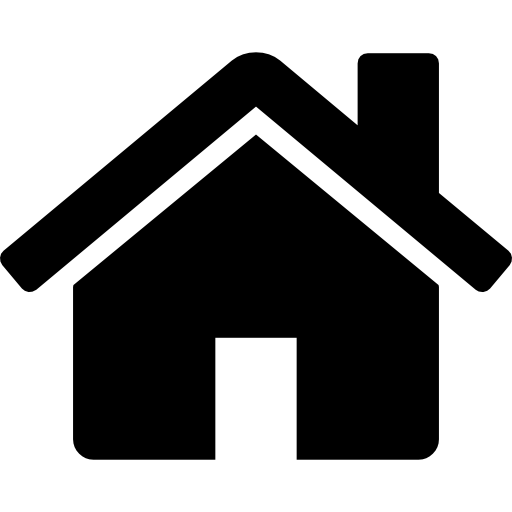
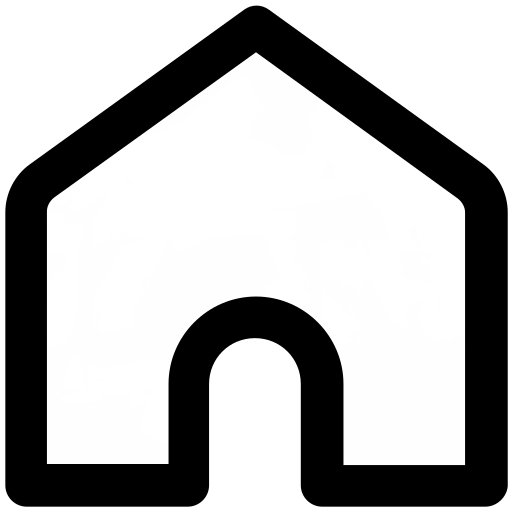
nmp

diff --git a/public/style/video.css b/public/style/video.css
@@ -43,7 +43,8 @@
     margin-right: auto;
 }
 .videos_from{
-    border: 2px solid gray;
+    border-top: 2px solid gray;
+    border-left: 2px solid gray;
     border-radius: 0 0 20px 0px;
     height: 100%;
     width: 100%;
@@ -94,11 +95,14 @@
     text-align: left;
 }
 .next_section{
-    border: 2px solid gray;
     border-radius: 20px;
-    padding-top: 50px;
+    margin-top: 20px;
     width: 100%;
     height: fit-content;
+    overflow: visible;
+}
+.next_section h1{
+    margin: 10px;
 }
 .next{
     z-index: 0;

diff --git a/public/style/theme.css b/public/style/theme.css
@@ -19,7 +19,10 @@
         color: gray;
     }
     .lupa,.close,.levi img,.options img,.arrow{
-        filter: invert(100%);
+        filter: invert(90%);
+    }
+    .sada img{
+        filter: invert(20%)!important;
     }
 }
 @media (prefers-color-scheme: light) {
@@ -41,6 +44,11 @@
         background-color: white;
         color: gray;
     }
-    
+    .lupa,.close,.levi img,.options img,.arrow{
+        filter: invert(20%);
+    }
+    .sada img{
+        filter: invert(90%)!important;
+    }
     
 }

diff --git a/public/srcipts/video.js b/public/srcipts/video.js
@@ -1,0 +1,13 @@
+let currentVolume = parseFloat(localStorage.getItem("videoVolume")) || 1; // Default to 100%
+
+const videoElement = document.getElementById("current");
+
+videoElement.addEventListener('volumechange',(element)=>{
+    updateVolume(videoElement.volume)
+})
+
+function updateVolume(newVolume) {
+  videoElement.volume = newVolume;
+  localStorage.setItem("videoVolume", newVolume);
+}
+updateVolume(currentVolume);

diff --git a/public/style/main-page.css b/public/style/main-page.css
@@ -80,7 +80,7 @@ ul button{
     
 }
 .levi ul button:hover, .sada{
-    background-color: gray !important;
+    background-color: rgb(173, 173, 173) !important;
 }
 
 .skracen{
